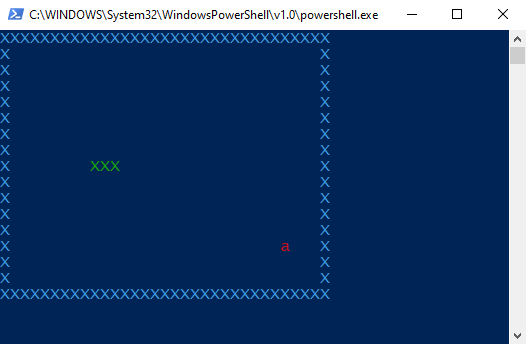
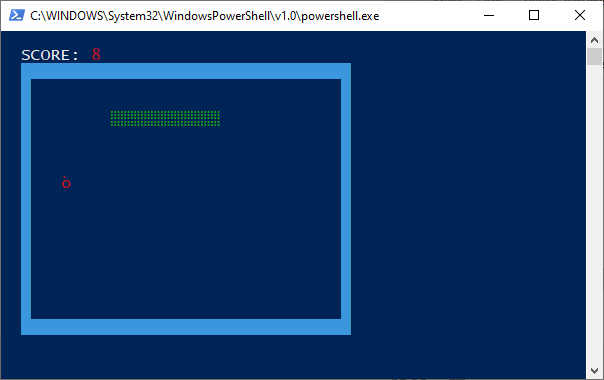
:)

diff --git a/snake.py b/snake.py
@@ -27,11 +27,11 @@ def print_field():
         while col <= FIELD_WIDTH:
             cell = col, row
             if is_border(col, row):
-                p(colorama.Fore.CYAN + '▓')
+                p(colorama.Fore.CYAN + '█')
             elif cell in snake_body:
                 p(colorama.Fore.GREEN + '░')
             elif cell == apple_pos:
-                p(colorama.Fore.RED + 'a')
+                p(colorama.Fore.RED + 'ò')
             else:
                 p(' ')
             col += 1
